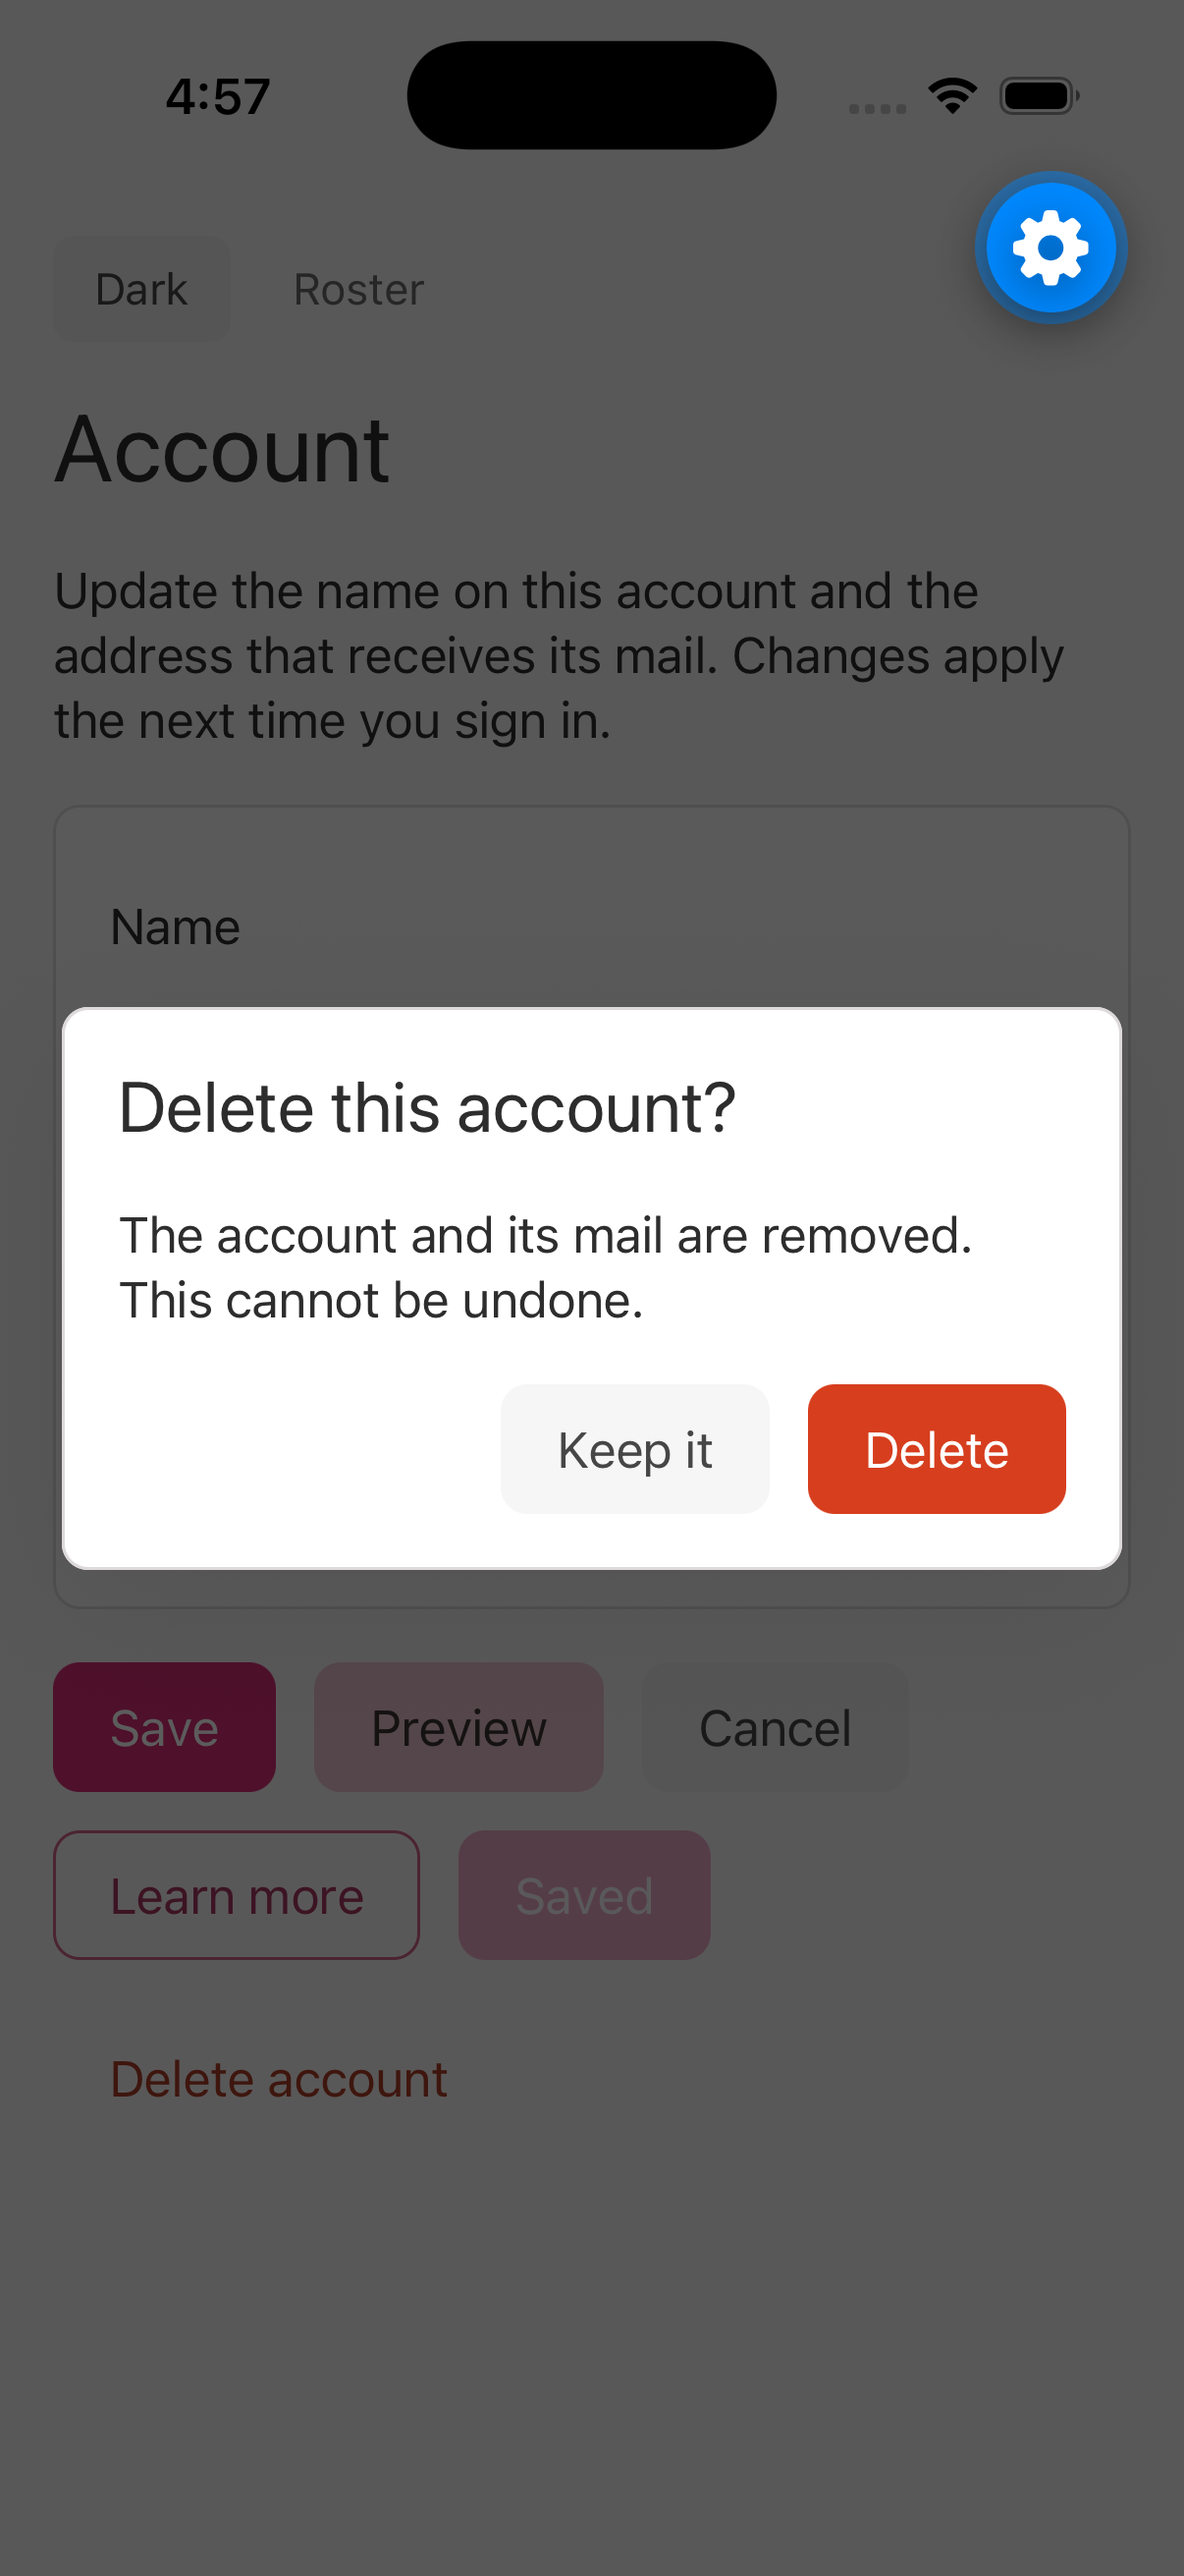
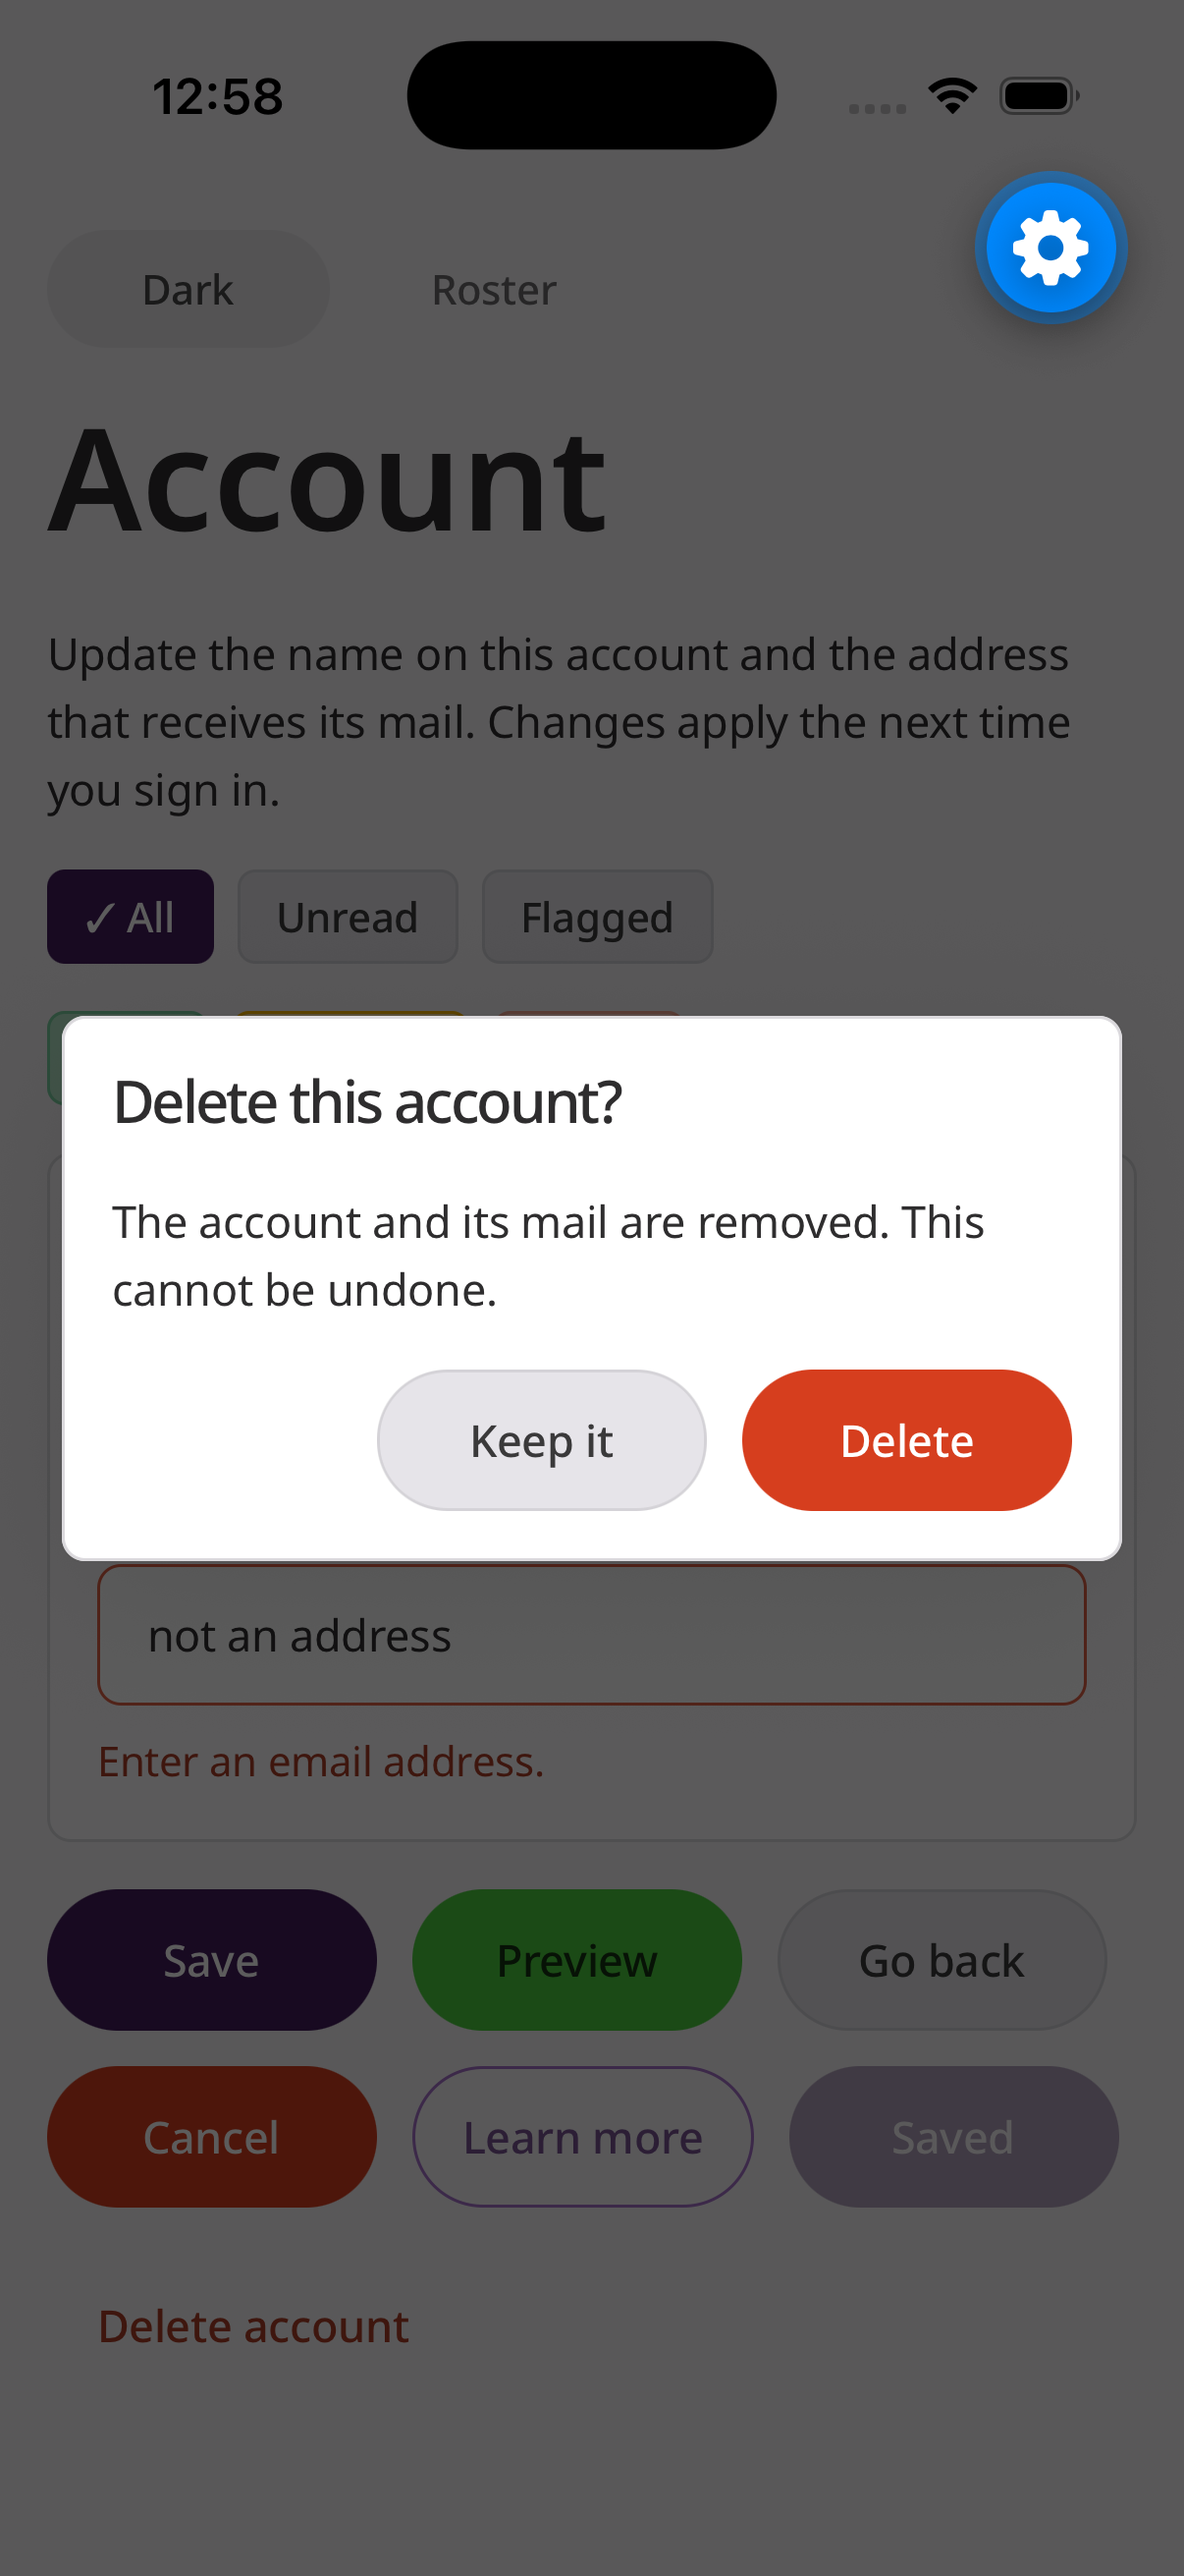
docs(exhibit): the 2026-09-22 record, and the iOS variant trap
Thirteen shots replaced under their names and one added, dialog-native-dark:
web from headless Chrome at 640 wide, native from Expo Go on an iPhone 17 Pro
simulator, both modes, brand eggplant on okchroma 0.6.1 after decision 31. Read
back on web by computed style and on native by pixel against the generated
theme; every value is the engine's for the recorded name but one.

That one is the trap: on iOS a theme key written inside a styled() variant
resolves against the root theme, while the same key written as a prop resolves
against the component's theme. The toggle's selected variant is on that path;
the button chip left it with decision 31.

diff --git a/docs/exhibit.md b/docs/exhibit.md
@@ -46,3 +46,17 @@ iPhone 17 Pro simulator: `screen-native-light`, `screen-native-dark`,
 `roster-native-light`, `roster-native-dark`, `dialog-native-light`. Every color on screen
 was read back from the DOM on web as the engine's value for the recorded name; native
 shows the same values from the same file. Unjudged: the owner has not yet answered per row.
+
+**2026-09-22, brand `eggplant` (`#431C5B`, exact second family `#4BCD3E`), okchroma 0.6.1,
+after decision 31.** Web from Vite on 8350 through headless Chrome at 640 wide, the first
+1000 pixels of the page: `screen-web-light`, `screen-web-dark`, `roster-web-light`,
+`roster-web-dark`, and the baseline `screen-web-stock-light`, `screen-web-stock-dark`.
+Native from Expo Go on an iPhone 17 Pro simulator: `screen-native-light`,
+`screen-native-dark`, `roster-native-light` and `roster-native-dark` (framed at the brand
+family, whose rows fill a phone screen), `dialog-native-light`, `dialog-native-dark`. Read
+back: on web, every button chip, toggle and tag on the roster by computed style in both
+modes; on native, by pixel against the generated theme, on the screen, the brand family's
+roster rows and the dialog in both modes. Every value is the engine's for the recorded
+name, with one exception recorded in `docs/plan.md` Traps: on iOS a selected Button takes
+the root theme's selected ground. These files replace the 2026-09-15 set under the same
+names; that set stays in the history. Unjudged: the owner has not yet answered per row.

diff --git a/docs/plan.md b/docs/plan.md
@@ -151,6 +151,14 @@ UI is not installed and not planned.
   extraction is off. Pointed at `config.ts` it fails on every file with "Cannot convert
   undefined or null to object" and "Must provide components"; the app still renders,
   because the theme is applied at runtime, but the log is all noise.
+- On iOS, a `$` theme key written inside a `styled()` variant resolves against the root
+  theme, not the component's; the same key written as a prop resolves against the
+  component's theme. Read back by pixel on the roster's brand family: the toggle's
+  `selected` variant renders the neutral 16 percent rung in place of the brand's subtle
+  rung, while `backgroundColor="$backgroundSelected"` as a prop on the same family renders
+  the brand rung. Web resolves both the same. The toggle is on that path; the button chip
+  is not, since it changes theme instead (decision 31). A part that must color by a prop on
+  native passes the key as a prop, never through a variant.
 - Comments say why the code is as it is, in the present tense, with no date.
 
 ## Not in scope
